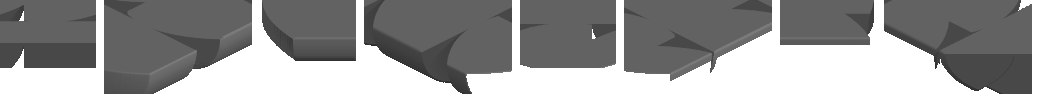
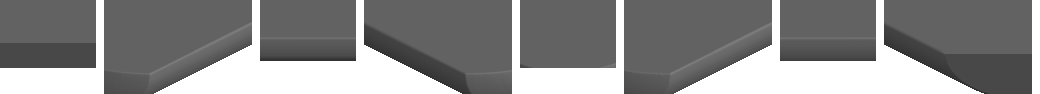
multi-hulls and proper splining

diff --git a/internal/hull/hull.go b/internal/hull/hull.go
@@ -7,12 +7,16 @@ import (
 	"os"
 )
 
-// Hull represents a hull, with a voxel length/width/height and list of sections
-type Hull struct {
+type HullFile struct {
 	FileName string `json:"filename"`
 	Length int `json:"length"`
 	Width int `json:"width"`
 	Height int `json:"height"`
+	Hulls []Hull `json:"hulls"`
+}
+
+// Hull represents a hull, with a voxel length/width/height and list of sections
+type Hull struct {
 	Index byte `json:"palette_index"`
 	Sections []Section `json:"sections"`
 }
@@ -45,11 +49,15 @@ func (sp SplinePoint) Add(sp2 SplinePoint) SplinePoint {
 
 
 // GetWidth gets the width at the specified section of hull
-func (h *Hull) GetDimensions(x int) Dimensions {
-	fraction := float64(x) / float64(h.Length)
+func (h *Hull) GetDimensions(x int, length, width, height int) Dimensions {
+	fraction := float64(x) / float64(length)
 
 	p0 := SplinePoint{l: 0.0, w: 0.0}
 	p1, p2, p3 := p0, p0, p0
+
+
+	k0 := SplinePoint{l: 0.0, w: 0.0}
+	k1, k2, k3 := k0, k0, k0
 
 	curWidth, nextWidth := 0.0, 0.0
 	curStart, nextStart := 0.0, 1.0
@@ -63,9 +71,11 @@ func (h *Hull) GetDimensions(x int) Dimensions {
 			nextKeel = h.Sections[i].Keel
 
 			p2 = SplinePoint{l: h.Sections[i].Start, w: h.Sections[i].Width}
+			k2 = SplinePoint{l: h.Sections[i].Start, w: h.Sections[i].Keel}
 
 			if i < len(h.Sections) - 1 {
 				p3 = SplinePoint{l: h.Sections[i+1].Start, w: h.Sections[i+1].Width}
+				k3 = SplinePoint{l: h.Sections[i+1].Start, w: h.Sections[i+1].Keel}
 			}
 
 			break
@@ -77,9 +87,11 @@ func (h *Hull) GetDimensions(x int) Dimensions {
 		algorithm = h.Sections[i].Tweening
 
 		p1 = SplinePoint{l: h.Sections[i].Start, w: h.Sections[i].Width}
+		k1 = SplinePoint{l: h.Sections[i].Start, w: h.Sections[i].Keel}
 
 		if i > 0 {
 			p0 = SplinePoint{l: h.Sections[i-1].Start, w: h.Sections[i-1].Width}
+			k0 = SplinePoint{l: h.Sections[i-1].Start, w: h.Sections[i-1].Keel}
 		}
 
 
@@ -116,10 +128,16 @@ func (h *Hull) GetDimensions(x int) Dimensions {
 		st2 := getT(st1, p1, p2)
 		st3 := getT(st2, p2, p3)
 
+		stk0 := 0.0
+		stk1 := getT(stk0, k0, k1)
+		stk2 := getT(stk1, k1, k2)
+		stk3 := getT(stk2, k2, k3)
+		
 		var curP, nextP SplinePoint
+		var curK, nextK SplinePoint
 		foundEnd := false
 
-		for st := st1; st < st2; st += (st2 - st1) / (tweenLength * float64(h.Length)) {
+		for st := st1; st < st2; st += (st2 - st1) / (tweenLength * float64(length)) {
 			a1 := p0.Mul((st1 - st) / (st1 - st0)).Add(p1.Mul((st - st0) / (st1 - st0)))
 			a2 := p1.Mul((st2 - st) / (st2 - st1)).Add(p2.Mul((st - st1) / (st2 - st1)))
 			a3 := p2.Mul((st3 - st) / (st3 - st2)).Add(p3.Mul((st - st2) / (st3 - st2)))
@@ -138,27 +156,49 @@ func (h *Hull) GetDimensions(x int) Dimensions {
 			}
 		}
 
+		for stk := stk1; stk < stk2; stk += (stk2 - stk1) / (tweenLength * float64(length)) {
+			a1 := k0.Mul((stk1 - stk) / (stk1 - stk0)).Add(k1.Mul((stk - stk0) / (stk1 - stk0)))
+			a2 := k1.Mul((stk2 - stk) / (stk2 - stk1)).Add(k2.Mul((stk - stk1) / (stk2 - stk1)))
+			a3 := k2.Mul((stk3 - stk) / (stk3 - stk2)).Add(k3.Mul((stk - stk2) / (stk3 - stk2)))
+
+			b1 := a1.Mul((stk2-stk)/(stk2-stk0)).Add(a2.Mul((stk - stk0)/(stk2-stk0)))
+			b2 := a2.Mul((stk3-stk)/(stk3-stk1)).Add(a3.Mul((stk - stk1)/(stk3-stk1)))
+
+			c := b1.Mul((stk2 - stk)/(stk2-stk1)).Add(b2.Mul((stk-stk1)/(stk2-stk1)))
+
+			if c.l < fraction {
+				curK = c
+			} else {
+				nextK = c
+				foundEnd = true
+				break
+			}
+		}
+
+
 		l := nextP.l - curP.l
 		t1 = (fraction - curP.l) / l
 		t2 = 1.0 - t1
 
 		w := curP.w
+		k := curK.w
 
 		if foundEnd {
 			w = (curP.w * t2) + (nextP.w * t1)
+			k = (curK.w * t2) + (nextK.w * t1)
 		}
 
 		return Dimensions{
-			Width: int(w * float64(h.Width)),
-			Keel: int((1.0 - ((curKeel * t1) + (nextKeel * t2))) * float64(h.Height)),
+			Width: int(w * float64(width)),
+			Keel: int((1.0 - k) * float64(height)),
 		}
 
 
 	}
 
 	return Dimensions{
-		Width: int(((curWidth * t1) + (nextWidth * t2)) * float64(h.Width)),
-		Keel: int((1.0 - ((curKeel * t1) + (nextKeel * t2))) * float64(h.Height)),
+		Width: int(((curWidth * t1) + (nextWidth * t2)) * float64(width)),
+		Keel: int((1.0 - ((curKeel * t1) + (nextKeel * t2))) * float64(height)),
 	}
 }
 
@@ -168,7 +208,7 @@ func getT(t float64, p0, p1 SplinePoint) float64 {
 	return b + t
 }
 
-func FromFile(filename string) (h Hull, err error) {
+func FromFile(filename string) (h HullFile, err error) {
 	handle, err := os.Open(filename)
 	defer handle.Close()
 	if err != nil {

diff --git a/internal/voxels/voxel_hull.go b/internal/voxels/voxel_hull.go
@@ -7,29 +7,31 @@ import (
 	"github.com/mattkimber/humber/internal/palette"
 )
 
-func WriteHull(hull hull.Hull) error {
-	size := geometry.NewPoint(hull.Length, hull.Width, hull.Height)
+func WriteHull(hf hull.HullFile) error {
+	size := geometry.NewPoint(hf.Length, hf.Width, hf.Height)
 	object := magica.NewVoxelObject(size, palette.GetDefault())
 
-	for i := 0; i < hull.Length; i++ {
-		dimensions := hull.GetDimensions(i)
-		for j := 0; j < hull.Width; j++ {
-			a := float64(dimensions.Width) / 2
-			x := (float64(j)) - (float64(hull.Width-1) / 2)
+	for _, h := range hf.Hulls {
+		for i := 0; i < hf.Length; i++ {
+			dimensions := h.GetDimensions(i, hf.Length, hf.Width, hf.Height)
+			for j := 0; j < hf.Width; j++ {
+				a := float64(dimensions.Width) / 2
+				x := (float64(j)) - (float64(hf.Width-1) / 2)
 
-			for k := 0; k < hull.Height; k++ {
+				for k := 0; k < hf.Height; k++ {
 
-				b := float64(dimensions.Keel) / 2
-				y := float64(k)/2 - float64(hull.Height-1)/2
+					b := float64(dimensions.Keel) / 2
+					y := float64(k)/2 - float64(hf.Height-1)/2
 
-				if (x*x)/(a*a) + (y*y)/(b*b) <= 1 {
-					pt := geometry.NewPoint(hull.Length-(1+i),j,k)
-					object.Set(pt, hull.Index)
+					if (x*x)/(a*a)+(y*y)/(b*b) <= 1 {
+						pt := geometry.NewPoint(hf.Length-(1+i), j, k)
+						object.Set(pt, h.Index)
+					}
 				}
 			}
 		}
 	}
 
-	err := object.SaveToFile(hull.FileName)
+	err := object.SaveToFile(hf.FileName)
 	return err
 }
